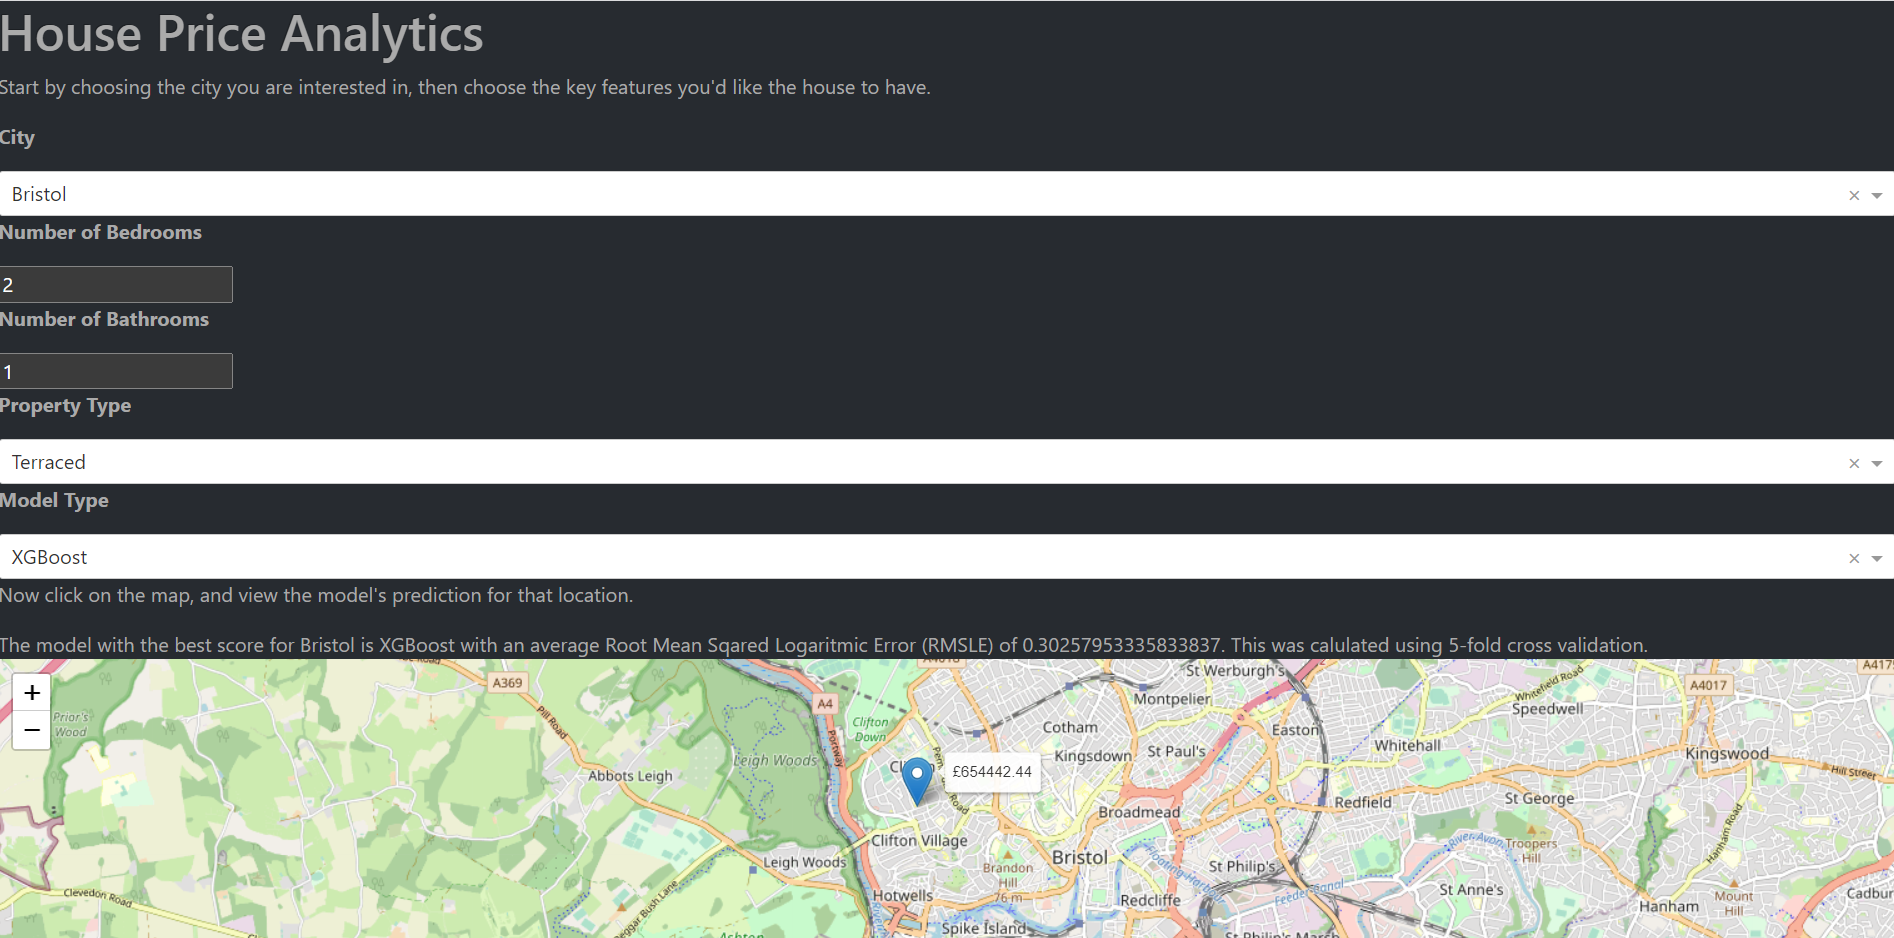
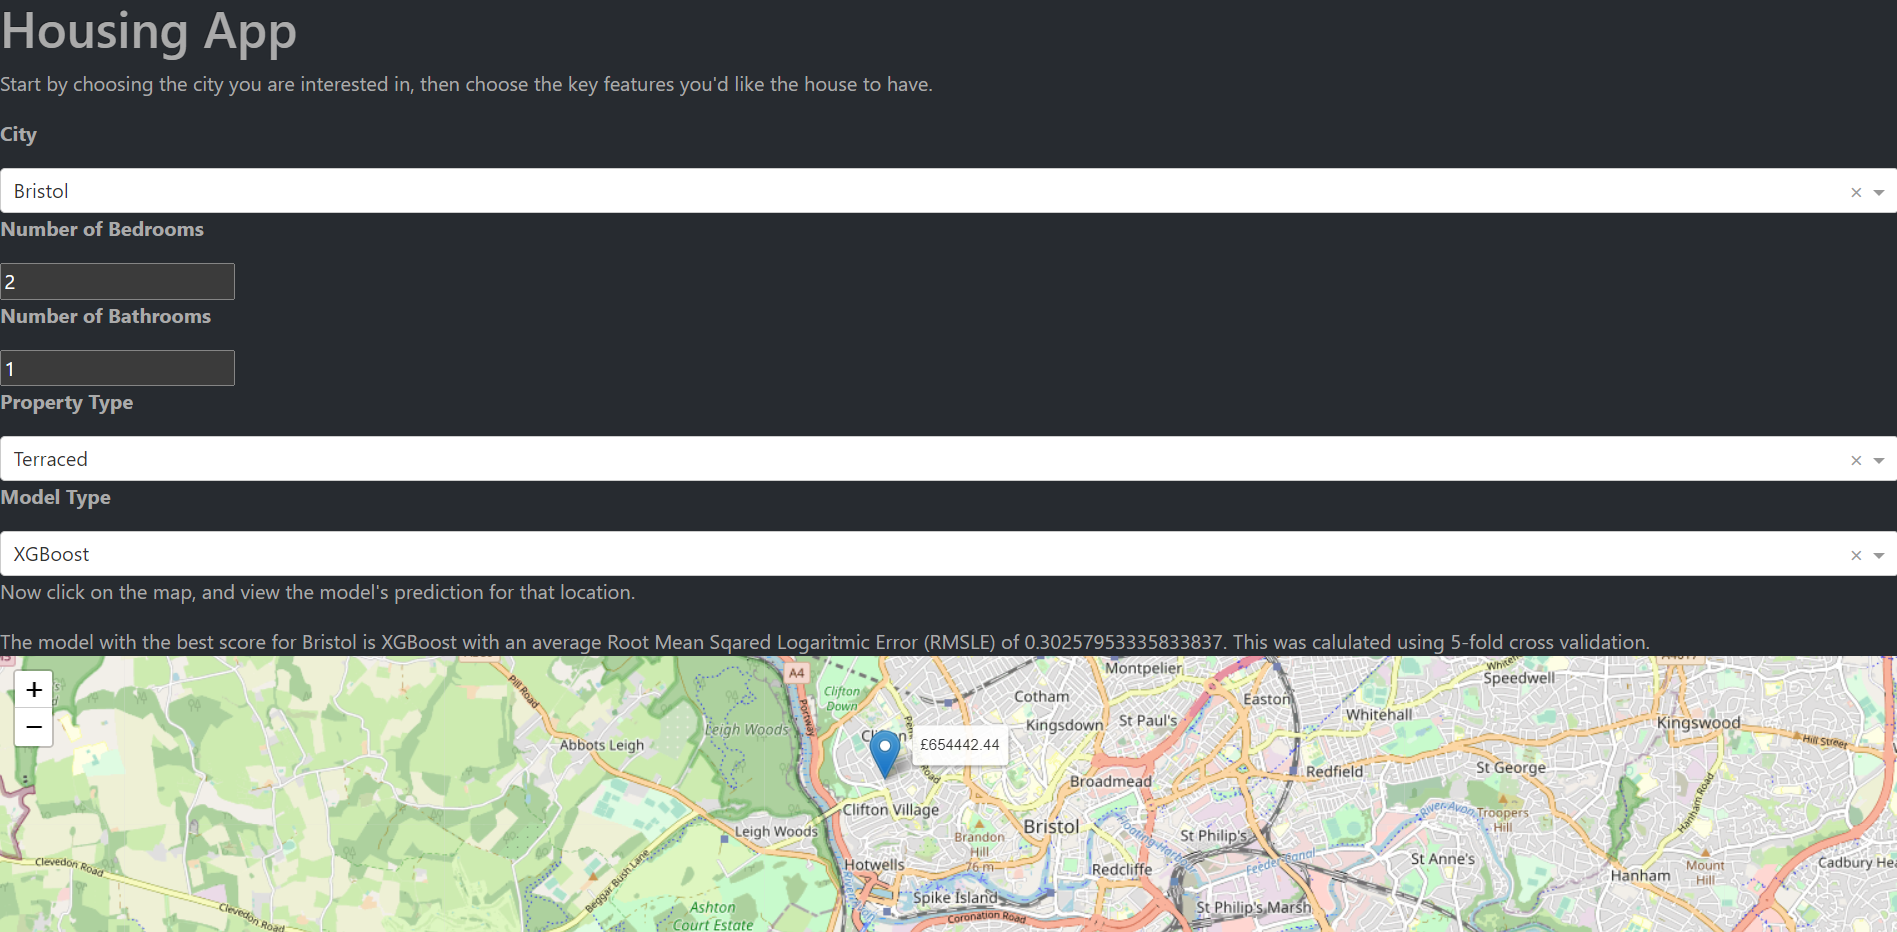
Add screenshot to readme

diff --git a/dash_housing_app.py b/dash_housing_app.py
@@ -91,7 +91,7 @@ app.layout = html.Div(
     [
         html.Div(
             children=[
-                html.H1(children="House Price Analytics", className="header-title"),
+                html.H1(children="Housing App", className="header-title"),
                 html.P(
                     children="Start by choosing the city you are interested in, then choose the key features you'd like the house to have.",
                     className="header-description",
